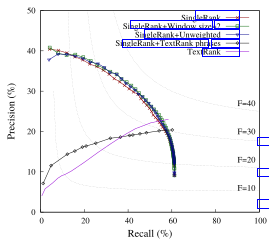
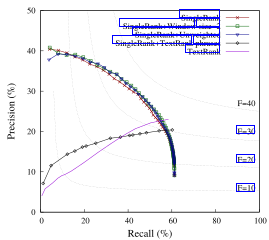
the SVGs produced by our system and the PNGS produced by allenAi doesn't have the same shape. Also, the JSON file contains the BB of the words wrt page origin. Co-ordinate system needs to be transformed by first translating by the ImageBB in the JSON and then scaling by SVG Width/ PNG Width (which s

diff --git a/code/CreateLegendWordsTagged.py b/code/CreateLegendWordsTagged.py
@@ -1,6 +1,8 @@
+from __future__ import division
 from PIL import Image,ImageDraw
 import json
 import os,sys
+import xml.etree.cElementTree as ET
 
 def main():
     ''' 
@@ -12,22 +14,47 @@ def main():
     #for a single file in the "code" directory, just for testing.
     orgPngDir="./"
     wcPngDir="./"
-    subtractImageBB=True    
+    subtractImageBB=True 
 
     jsonLoc=sys.argv[1]
+    js=json.load(open(jsonLoc))
+ 
+    svgLoc=orgPngDir+os.path.split(jsonLoc)[1][:-9]+".svg"
+    tree = ET.ElementTree(file=svgLoc)
+    root = tree.getroot()
+    svgH=float(root.get('height'))
+    svgW=float(root.get('width'))
+
+    translateString=root.findall("{http://www.w3.org/2000/svg}g")[0].get('transform') #there's going to be exactly one child
+    tXSVG=abs(round(float(translateString.split("(")[1].split(",")[0])))
+    tYSVG=abs(round(float(translateString.split("(")[1].split(",")[1].split(")")[0])))
+    #print tX,tY,translateString
     
-    im=Image.open(orgPngDir+os.path.split(jsonLoc)[1][:-9]+".png") 
+            
+    im=Image.open(orgPngDir+os.path.split(jsonLoc)[1][:-9]+".png")
+
+    tX=js['ImageBB'][0]
+    tY=js['ImageBB'][1]
+    
+    pngW=js['ImageBB'][2]-js['ImageBB'][0]
+    pngH=js['ImageBB'][3]-js['ImageBB'][1]
+
+    if abs(pngW/svgW - pngH/svgH)>0.1:  
+        print "ratios are wrong, exiting"
+        sys.exit(1)
+
+    tR=svgW/pngW#transform ratio 
+
     draw = ImageDraw.Draw(im)
 
-    js=json.load(open(jsonLoc))
     for imt in js['ImageText']:
         if imt['TextLabel']=='legend':
-            #print imt['Text'],imt['TextBB']
-            if subtractImageBB:
+           if subtractImageBB:
                 a=imt['TextBB']
-                b=[a[0]-js['ImageBB'][0],a[1]-js['ImageBB'][1],a[2]-js['ImageBB'][0],a[3]-js['ImageBB'][1]]
+                b=[(a[0]-tX)*tR,(a[1]-tY)*tR,(a[2]-tX)*tR,(a[3]-tY)*tR]
+                #print imt['Text'],imt['TextBB'],b
                 draw.rectangle(b,outline="blue")
-            else:
+           else:
                 draw.rectangle(imt['TextBB'],outline="blue")
     
     im.save(wcPngDir+os.path.split(jsonLoc)[1][:-5]+".png")     

diff --git a/code/CombineLegend.py b/code/CombineLegend.py
@@ -1,10 +1,22 @@
 import os, sys
 import json
+from PIL import Image
+import numpy as np
 
+TOLERANCE=2
+
+def isHorizontal(w1,w2):
+    b1=w1['TextBB']
+    b2=w2['TextBB']
+    return abs(b2[1]-b1[1])<TOLERANCE and abs(b2[3]-b1[3])<TOLERANCE
+
+def imagePixelExists(w1,w2,imLoc):
+    im=np.asarray(Image.open(imLoc)
+      
 def mergeScores(lw,lWs,imageLoc):
     mWList=[]
     for w in lWs:
-        if notHorizontal(lw,w):
+        if not isHorizontal(lw,w):
             mWList.append((w,0))
         elif imagePixelExists(lw,w,imageLoc):
             mWList.append((w,0))
@@ -15,16 +27,22 @@ def mergeScores(lw,lWs,imageLoc):
 def combineLegend(jsonLoc,ImageLoc):
     #lW=legend Word
     lWs=[x for x in open(jsonLoc)['ImageText'] if x['TextLabel']=='legend']
-    i=0
-    while i<len(lWs):
-        lW=lWs[i]
-        print"checking word",i,"out of",len(lWs),"words"
-        i+=1
-        pWs=mergeScores(lW,list(set(lWs)-set([lW])),ImageLoc)
-        mergedlW=merge(lW,pWs)
+    finalLegends=[]
+    while len(lWs)>0:
+        lW=lWs[0]
+        lWs=lWs[1:]
+        pWs=mergeScores(lW,removeWord(lW,lWs),ImageLoc)
+        mergedlW,mergeWord=merge(lW,pWs)
         if mergedlW!=None:
+            lWs=removeWord(mergeWord,lWs)
             lWs.append(mergedlW)
-        
+            print "merged, now number of words: ",len(lWs)
+        else:
+            finalLegends.append(lW)
+    
+    for lW in lWs:
+            finalLegends.append(lW)
+          
               
           
 
